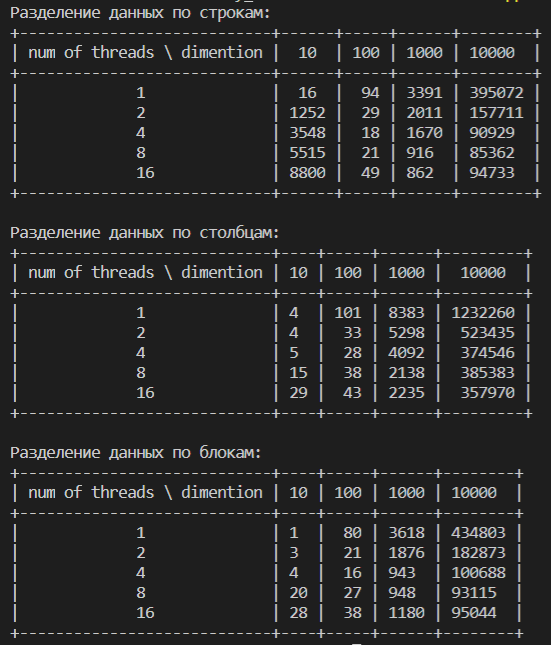
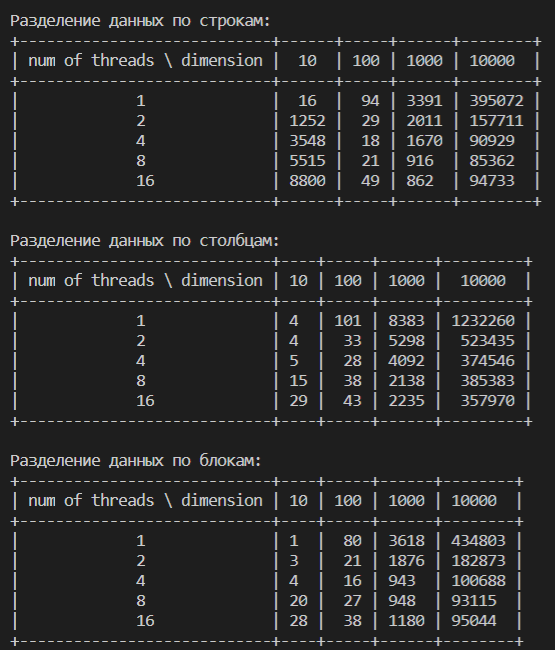
small fixes

diff --git a/Architecture_for_High_Performanc_Computing/task_3/task_3_make_tables.py b/Architecture_for_High_Performanc_Computing/task_3/task_3_make_tables.py
@@ -9,14 +9,14 @@ dim_list = []
 for dim in lines_rows[0].split(" ")[:-1]:
     dim_list.append(dim)
 
-t_rows = PrettyTable(['num of threads \ dimention'] + dim_list)
+t_rows = PrettyTable(['num of threads \ dimension'] + dim_list)
 
 for line in lines_rows[1::]:
     t_rows.add_row(line.split())
 f_rows.close()
 
 # COLUMNS
-t_cols = PrettyTable(['num of threads \ dimention'] + dim_list)
+t_cols = PrettyTable(['num of threads \ dimension'] + dim_list)
 
 f_cols = open('output_columns.txt', "r")
 lines_cols = f_cols.readlines()
@@ -26,7 +26,7 @@ for line in lines_cols[1::]:
 f_cols.close()
 
 #BLOCKS
-t_blocks = PrettyTable(['num of threads \ dimention'] + dim_list)
+t_blocks = PrettyTable(['num of threads \ dimension'] + dim_list)
 
 f_blocks = open('output_blocks.txt', "r")
 lines_blocks = f_blocks.readlines()
@@ -44,16 +44,3 @@ print(t_cols)
 print()
 print("Разделение данных по блокам:")
 print(t_blocks)
-
-
-
-#plt.scatter(n_list, result, c='b') # рисуем точки из эксперимента синим
-#plt.scatter(n_list, real_logs, c='r') # рисуем точки реальных значений красным
-
-# оформление графика
-#plt.title('Зависимость количества итераций от размера массива')
-#plt.xlabel('размер массива')
-#plt.ylabel('среднее количество итераций')
-
-# вывод графика
-#plt.show()

diff --git a/Architecture_for_High_Performanc_Computing/task_3/task_3.cpp b/Architecture_for_High_Performanc_Computing/task_3/task_3.cpp
@@ -90,7 +90,7 @@ int main() {
 		file_columns << threads_n << " ";
 		file_blocks << threads_n << " ";
 		for (int dim = 10; dim <= max_dim; dim *= 10){
-			cout << "Dimention: " << dim << endl;
+			cout << "Dimension: " << dim << endl;
 			int m = dim;
 			int n = dim;
 
